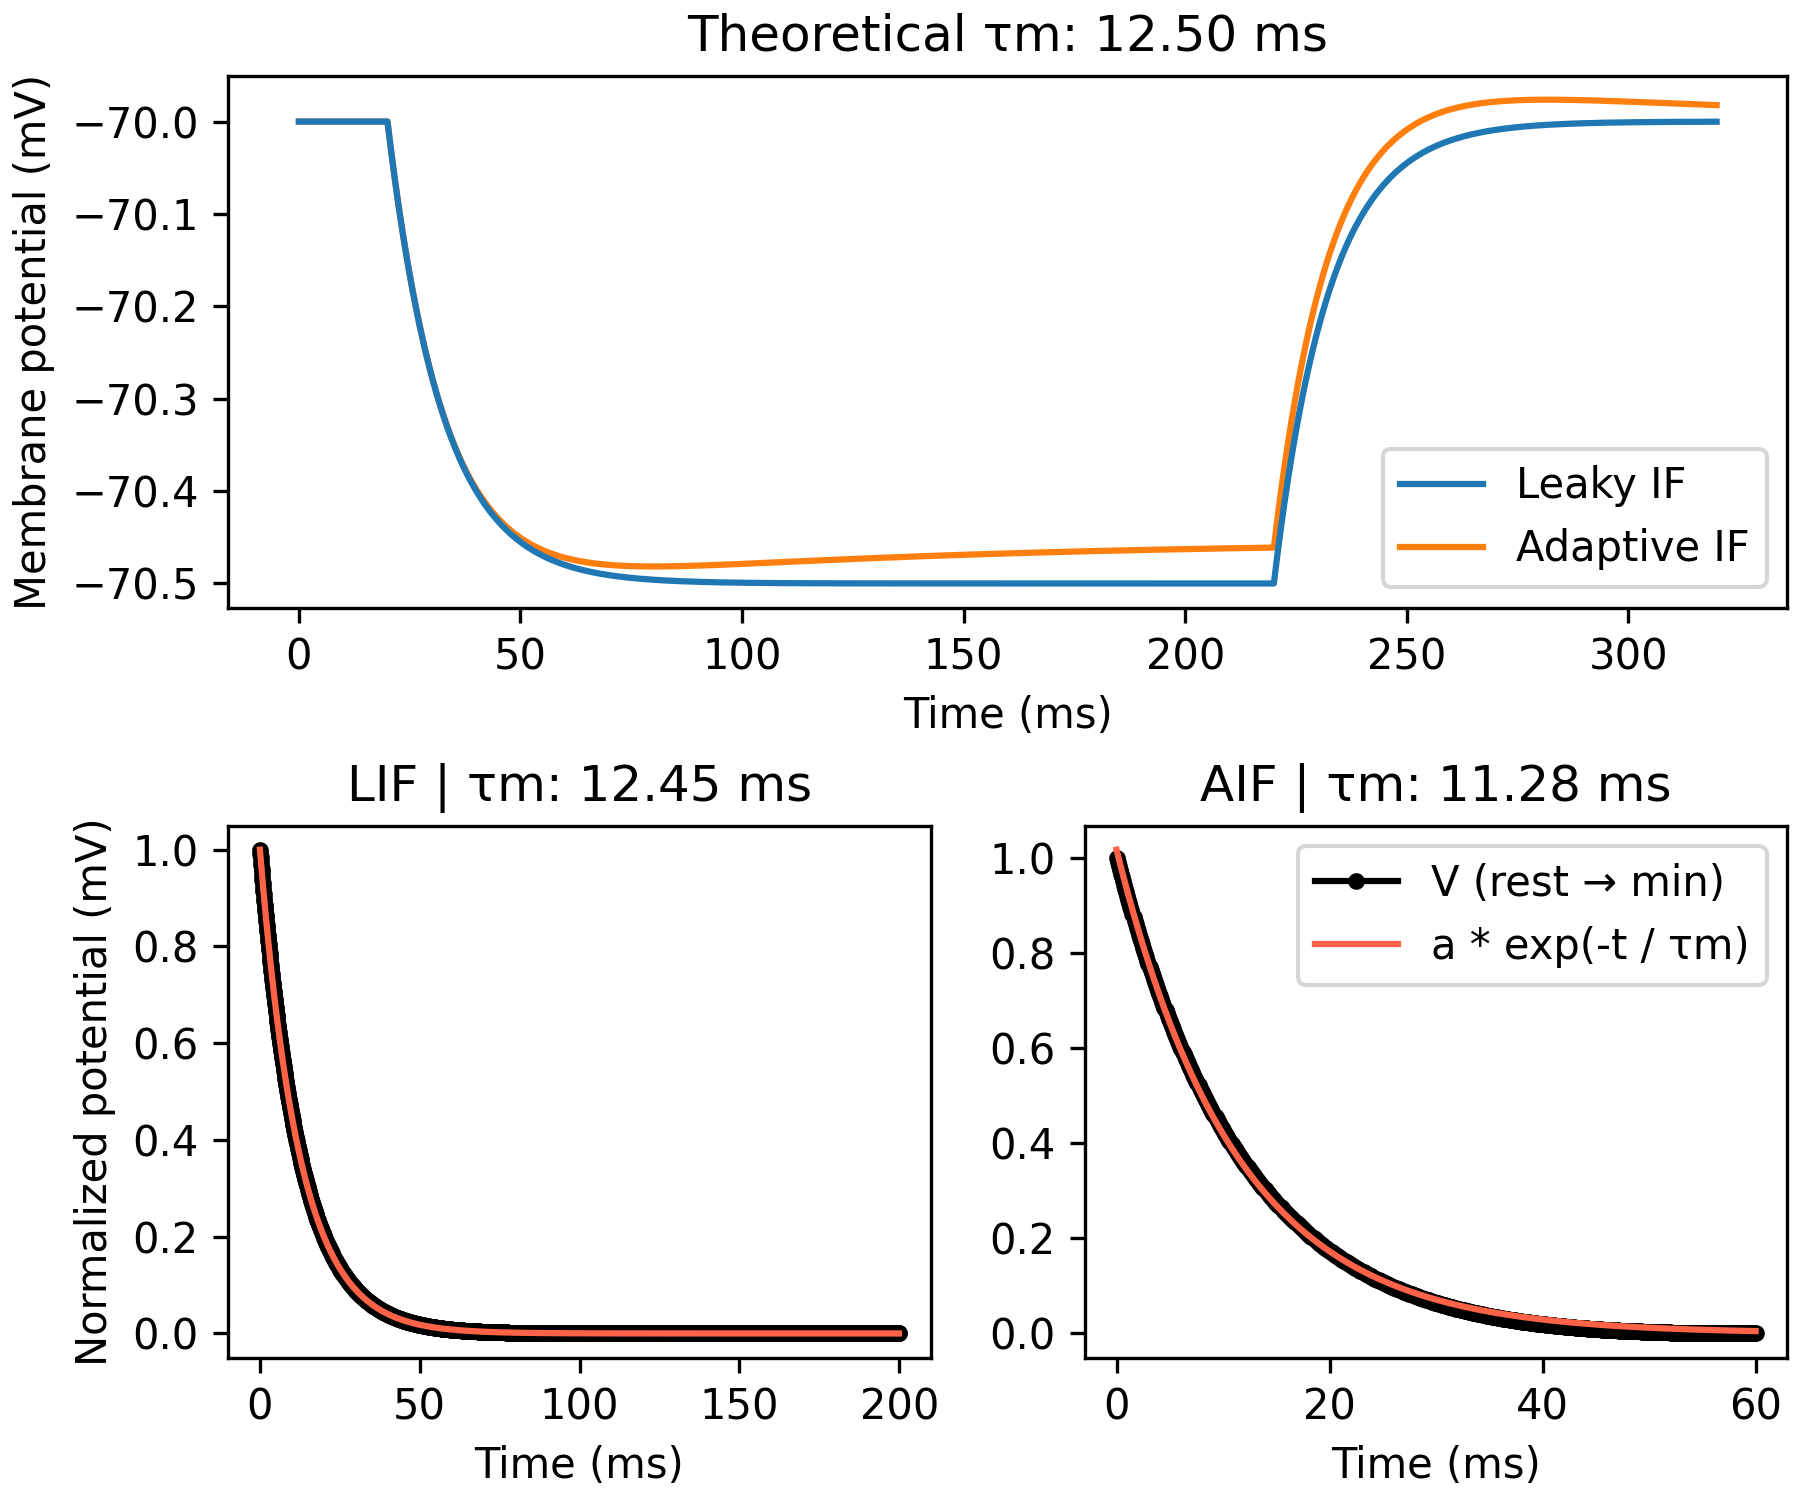
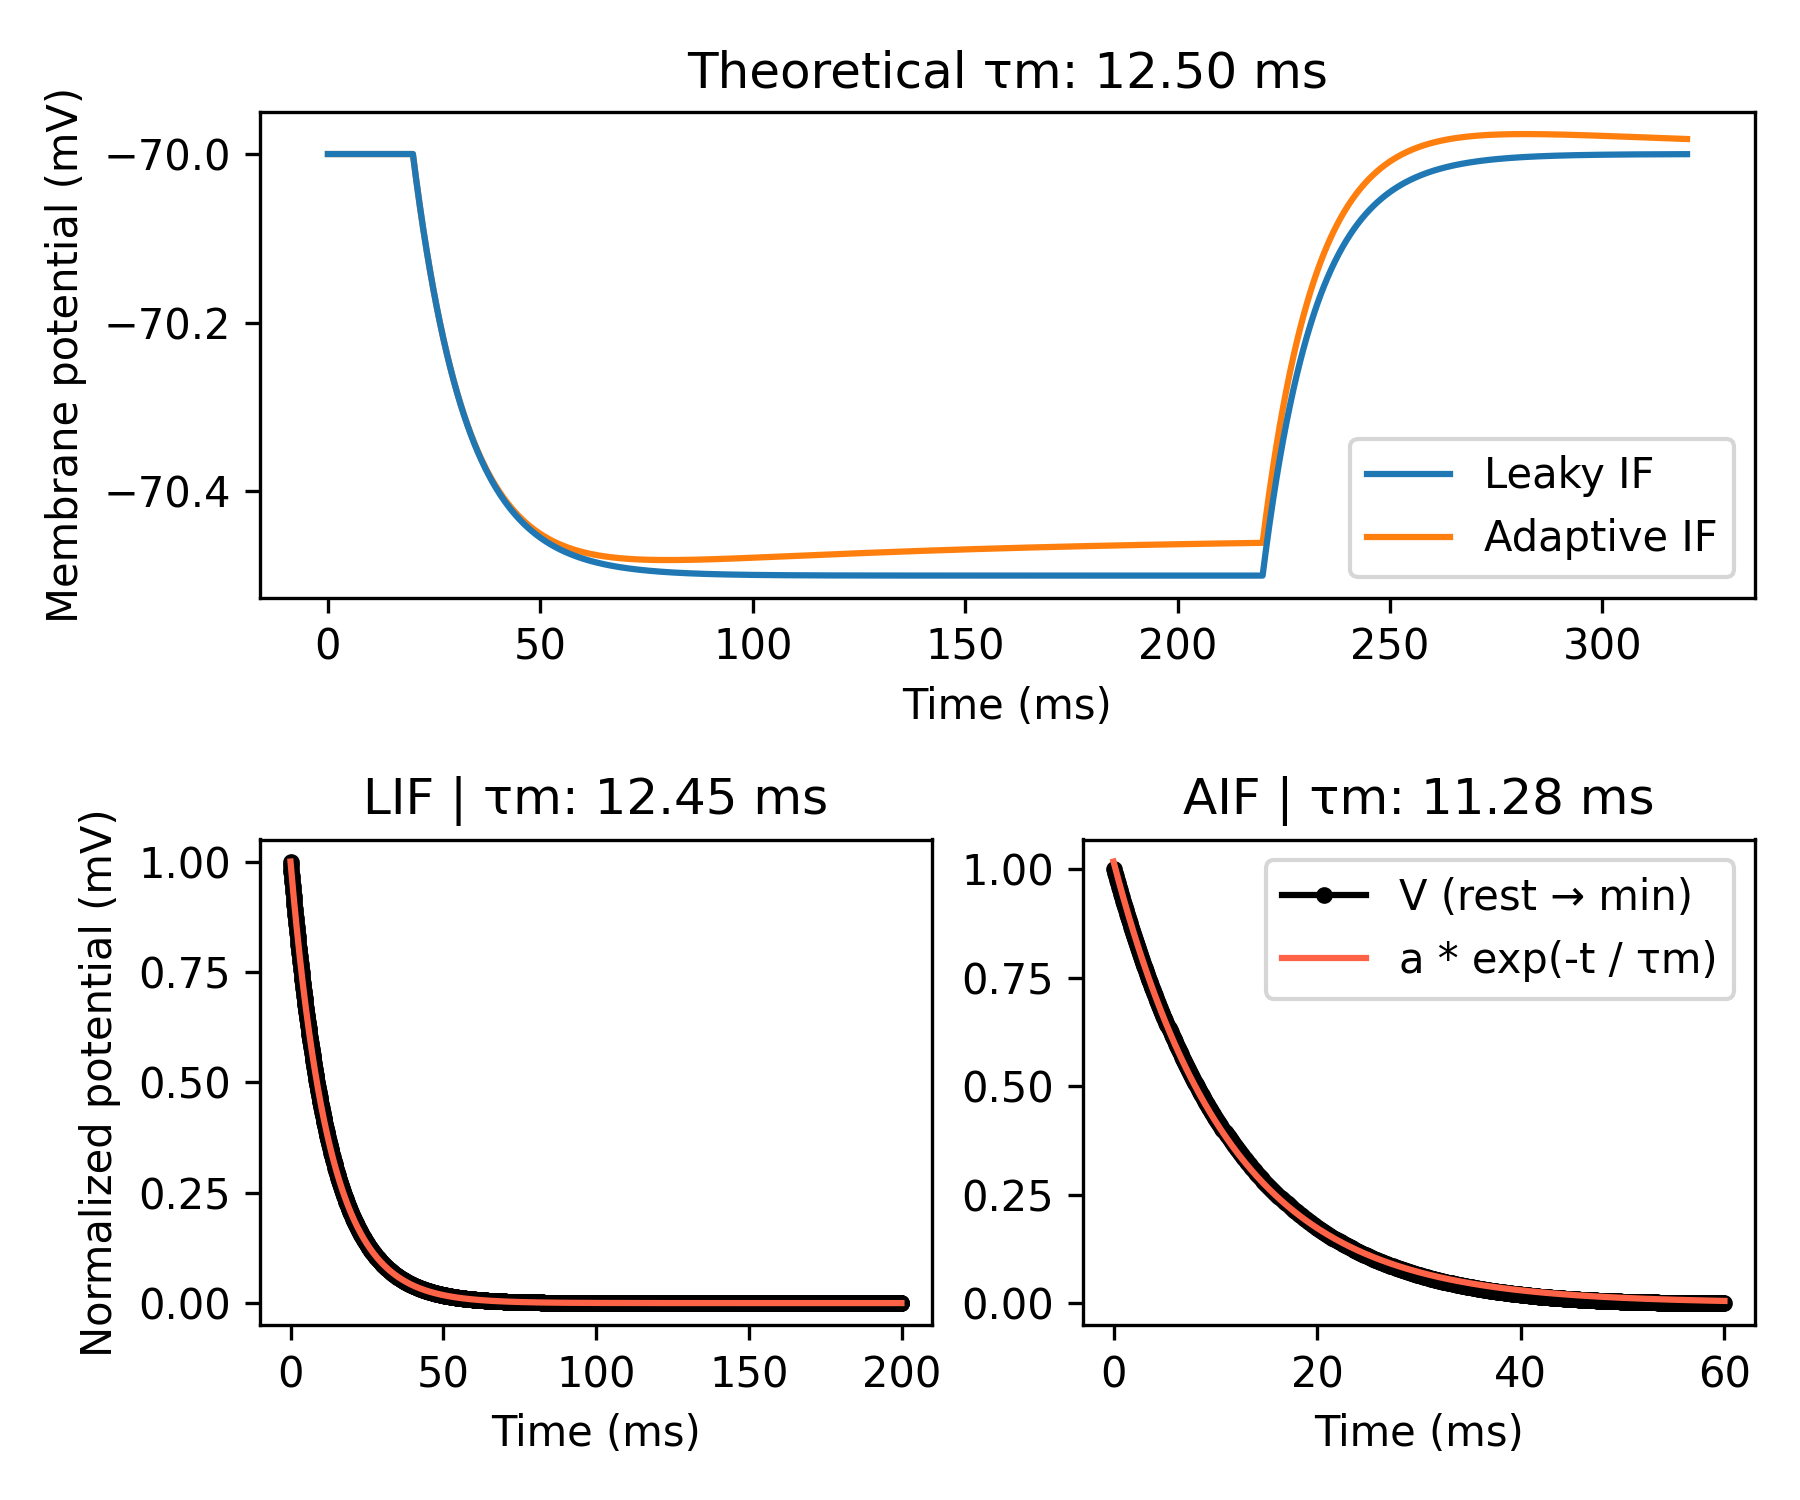
Minor changes

Changed region(s): [[0.0311, 0.4907, 0.9956, 0.9813], [0.0, 0.0, 0.9956, 0.4907]]

diff --git a/examples_new/val_tau.py b/examples_new/val_tau.py
@@ -33,16 +33,13 @@ from dendrify import PointNeuronModel
 b.prefs.codegen.target = 'numpy'  # faster for simple simulations
 
 # Create neuron models
-g_leakage = 20*nS  # membrane leak conductance
-capacitance = 250*pF  # membrane capacitance
+GL = 20*nS  # membrane leak conductance
+CM = 250*pF  # membrane capacitance
 EL = -70*mV  # resting potential
-tau_theory = capacitance / g_leakage  # theoretical membrane time constant
+tau_theory = CM / GL  # theoretical membrane time constant
 
-lif = PointNeuronModel(model='leakyIF', cm_abs=capacitance, 
-                       gl_abs=g_leakage, v_rest=EL)
-
-aif = PointNeuronModel(model='adaptiveIF', cm_abs=capacitance,
-                         gl_abs=g_leakage, v_rest=EL)
+lif = PointNeuronModel(model='leakyIF', cm_abs=CM, gl_abs=GL, v_rest=EL)
+aif = PointNeuronModel(model='adaptiveIF', cm_abs=CM, gl_abs=GL, v_rest=EL)
 aif.add_params({'tauw': 100*ms, 'a': 2*nS})
 
 # Create NeuronGroups (no threshold or reset conditions for simplicity)
@@ -73,17 +70,13 @@ def get_tau(trace, t0):
     dt = b.defaultclock.dt
     Vmin = min(trace)
     time_to_peak = list(trace).index(Vmin)
-
     # Find voltage from current-start to min value
     voltages = trace[int(t0/dt): time_to_peak] / mV
-
     # Min-max normalize voltages
     v_norm = (voltages - voltages.min()) / (voltages.max() - voltages.min())
-
     # Fit exp decay function to normalized data
     X = b.arange(0, len(v_norm)) * dt / ms
     popt, _ = curve_fit(func, X, v_norm)
-
     return popt, X, v_norm
 
 # Plot results
@@ -110,4 +103,5 @@ ax2.set_title(f'AIF | τm: {popt_aif[1]:.2f} ms')
 ax2.legend()
 for ax in axes.values():
     ax.set_xlabel('Time (ms)')
+fig.tight_layout()
 b.show()

diff --git a/docs_sphinx/source/examples/val_tau.rst b/docs_sphinx/source/examples/val_tau.rst
@@ -32,16 +32,13 @@ current.
     b.prefs.codegen.target = 'numpy'  # faster for simple simulations
     
     # Create neuron models
-    g_leakage = 20*nS  # membrane leak conductance
-    capacitance = 250*pF  # membrane capacitance
+    GL = 20*nS  # membrane leak conductance
+    CM = 250*pF  # membrane capacitance
     EL = -70*mV  # resting potential
-    tau_theory = capacitance / g_leakage  # theoretical membrane time constant
+    tau_theory = CM / GL  # theoretical membrane time constant
     
-    lif = PointNeuronModel(model='leakyIF', cm_abs=capacitance, 
-                           gl_abs=g_leakage, v_rest=EL)
-    
-    aif = PointNeuronModel(model='adaptiveIF', cm_abs=capacitance,
-                             gl_abs=g_leakage, v_rest=EL)
+    lif = PointNeuronModel(model='leakyIF', cm_abs=CM, gl_abs=GL, v_rest=EL)
+    aif = PointNeuronModel(model='adaptiveIF', cm_abs=CM, gl_abs=GL, v_rest=EL)
     aif.add_params({'tauw': 100*ms, 'a': 2*nS})
     
     # Create NeuronGroups (no threshold or reset conditions for simplicity)
@@ -72,17 +69,13 @@ current.
         dt = b.defaultclock.dt
         Vmin = min(trace)
         time_to_peak = list(trace).index(Vmin)
-    
         # Find voltage from current-start to min value
         voltages = trace[int(t0/dt): time_to_peak] / mV
-    
         # Min-max normalize voltages
         v_norm = (voltages - voltages.min()) / (voltages.max() - voltages.min())
-    
         # Fit exp decay function to normalized data
         X = b.arange(0, len(v_norm)) * dt / ms
         popt, _ = curve_fit(func, X, v_norm)
-    
         return popt, X, v_norm
     
     # Plot results
@@ -109,6 +102,7 @@ current.
     ax2.legend()
     for ax in axes.values():
         ax.set_xlabel('Time (ms)')
+    fig.tight_layout()
     b.show()
 
 
